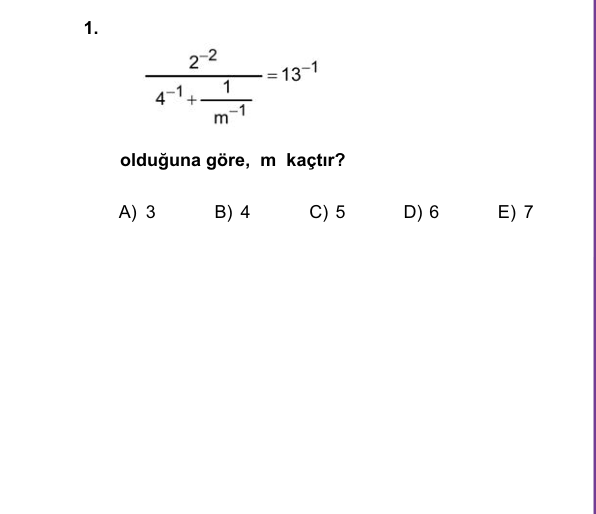
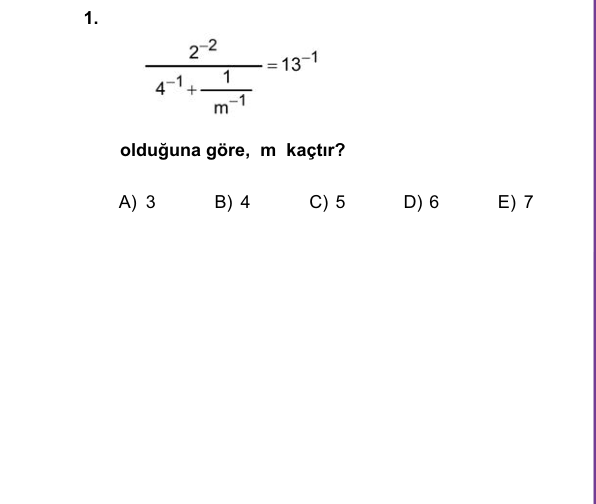
Talimat kutusu silme işlemi hassaslaştırıldı - 1. sorunun hemen üstünden kesme

diff --git a/question_extractor.py b/question_extractor.py
@@ -99,11 +99,11 @@ class QuestionExtractor:
             reference_y = third_question_y
             print(f"3. soru pozisyonu kullanılıyor: y={reference_y}")
         
-        # Talimat kutusunun alt sınırı = 1. ve 3. soruların hizasından biraz yukarı
-        instruction_bottom_y = min(first_question_y, reference_y) - 30  # 30 piksel margin
+        # Talimat kutusunun alt sınırı = 1. sorunun hemen üstünden (çok küçük margin)
+        instruction_bottom_y = first_question_y - 5  # Sadece 5 piksel margin - 1. sorunun hemen üstü
         
         print(f"Talimat kutusu alt sınırı hesaplandı: y={instruction_bottom_y}")
-        print(f"(1. soru: y={first_question_y}, referans: y={reference_y})")
+        print(f"(1. soru: y={first_question_y}, kesme noktası: y={instruction_bottom_y})")
         return instruction_bottom_y
     
     def remove_top_section_from_first_page(self):
@@ -257,8 +257,8 @@ class QuestionExtractor:
             r'^(\d+)\s*-\s*',  # "1 - " gibi
         ]
         
-        current_question = None
-        
+        # Önce tüm soru numaralarını ve pozisyonlarını bul
+        question_starts = []
         for i, block in enumerate(text_blocks):
             text = block['text']
             
@@ -279,35 +279,42 @@ class QuestionExtractor:
                 if self.is_instruction(text):
                     continue
                 
-                # Aynı soru numarası zaten var mı kontrol et
-                existing_question = any(q['number'] == question_number for q in questions)
-                if existing_question:
-                    continue
-                
-                # Önceki soruyu kaydet
-                if current_question:
-                    questions.append(current_question)
-                
-                # Yeni soru başlat
-                current_question = {
+                question_starts.append({
                     'number': question_number,
+                    'start_index': i,
                     'start_bbox': block['bbox'],
-                    'text': text,
-                    'page': page_num,
-                    'full_text': text,
-                    'start_index': i
-                }
-            elif current_question:
-                # Mevcut soruya devam et - şıkları da dahil et
-                current_question['full_text'] += ' ' + text
+                    'start_text': text
+                })
+        
+        # Her soru için içeriği topla
+        for i, q_start in enumerate(question_starts):
+            start_idx = q_start['start_index']
+            end_idx = question_starts[i + 1]['start_index'] if i + 1 < len(question_starts) else len(text_blocks)
+            
+            # Bu soruya ait tüm metinleri topla
+            question_text_parts = []
+            has_choices = False
+            
+            for j in range(start_idx, end_idx):
+                block = text_blocks[j]
+                text = block['text']
+                question_text_parts.append(text)
                 
                 # Şık pattern'i kontrol et
                 if re.search(r'^[A-E]\)\s*', text):
-                    current_question['has_choices'] = True
-        
-        # Son soruyu kaydet
-        if current_question:
-            questions.append(current_question)
+                    has_choices = True
+            
+            # Soru bilgilerini oluştur
+            question = {
+                'number': q_start['number'],
+                'start_bbox': q_start['start_bbox'],
+                'text': q_start['start_text'],
+                'page': page_num,
+                'full_text': ' '.join(question_text_parts),
+                'has_choices': has_choices
+            }
+            
+            questions.append(question)
         
         return questions
     
@@ -337,18 +344,29 @@ class QuestionExtractor:
     def is_instruction(self, line):
         """Satırın talimat mı soru mu olduğunu kontrol eder"""
         
-        # Çok spesifik talimat pattern'leri
+        # Çok spesifik talimat pattern'leri - sadece gerçek talimatlar
         instruction_patterns = [
             r'^\d+\.\s*Bu testte \d+ soru vardır',
-            r'^\d+\.\s*Cevaplarınızı, cevap kâğıdının Temel Matemati',
+            r'^\d+\.\s*Cevaplarınızı, cevap kâğıdının Temel Matematik Testi için ayrılan kısmına işaretleyiniz\.',
             r'^\d+\.\s*Test süresi',
             r'^\d+\.\s*Sınav başlamadan önce',
             r'^\d+\.\s*Talimatlar',
-            r'^\d+\.\s*Yönergeler'
+            r'^\d+\.\s*Yönergeler',
+            r'^\d+\.\s*Bu testte',
+            r'^\d+\.\s*Cevaplarınızı.*işaretleyiniz'
         ]
         
         # Sadece tam eşleşme kontrol et
-        return any(re.search(pattern, line) for pattern in instruction_patterns)
+        is_instruction_text = any(re.search(pattern, line) for pattern in instruction_patterns)
+        
+        # Ek kontrol: Eğer talimat pattern'i varsa ama matematik içeriği de varsa, bu bir soru olabilir
+        if is_instruction_text:
+            # Matematik içeriği var mı kontrol et
+            has_math = self.has_math_content(line)
+            if has_math:
+                return False  # Matematik içeriği varsa soru olarak kabul et
+        
+        return is_instruction_text
     
     def is_end_of_question(self, line, lines, line_num):
         """Soru bitti mi kontrol eder - şıklar dahil"""
